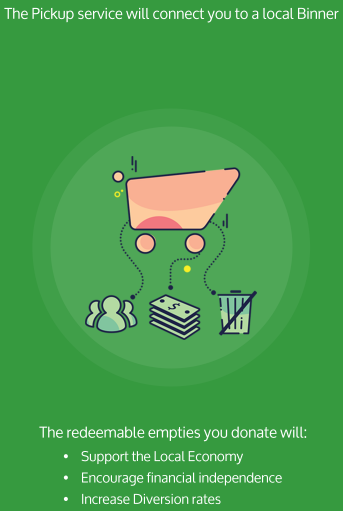
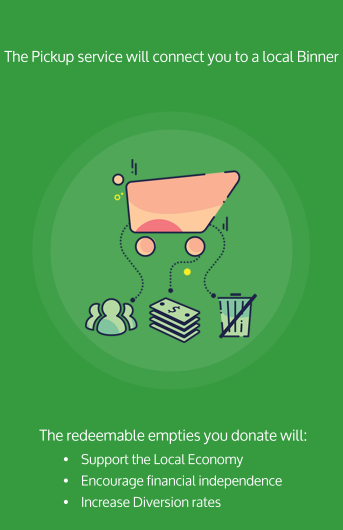
aligning images better in faq

diff --git a/public/css/main.scss b/public/css/main.scss
@@ -109,14 +109,13 @@ textarea {
 }
 
 .about-img-space {
-  height: 620px;
   display: flex;
   justify-content: center;
   align-items: center;
+  width: 360px;
 }
 
 #about {
-  // position: absolute;
   border: 5px solid #45b33d;
   width: auto;
   background-color: #369a3f;
